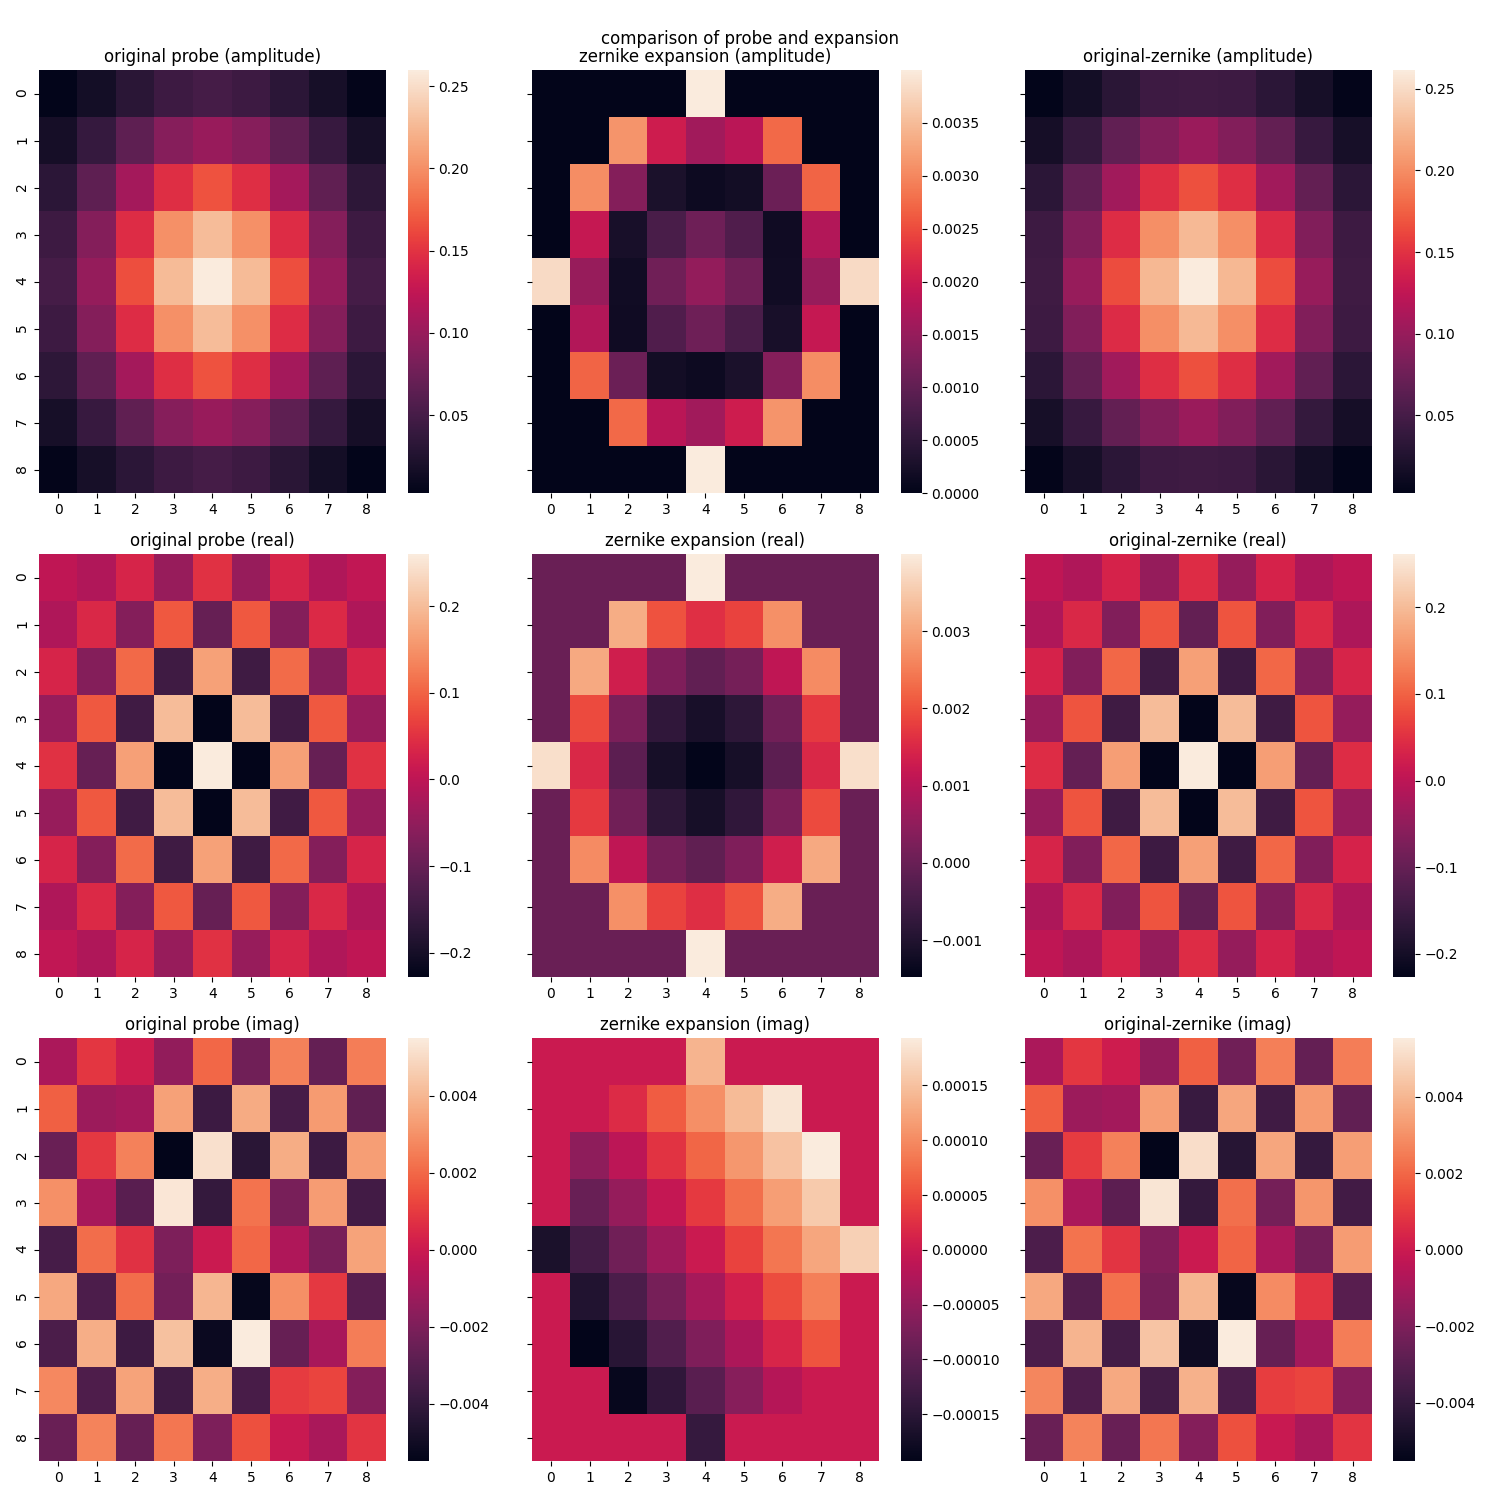
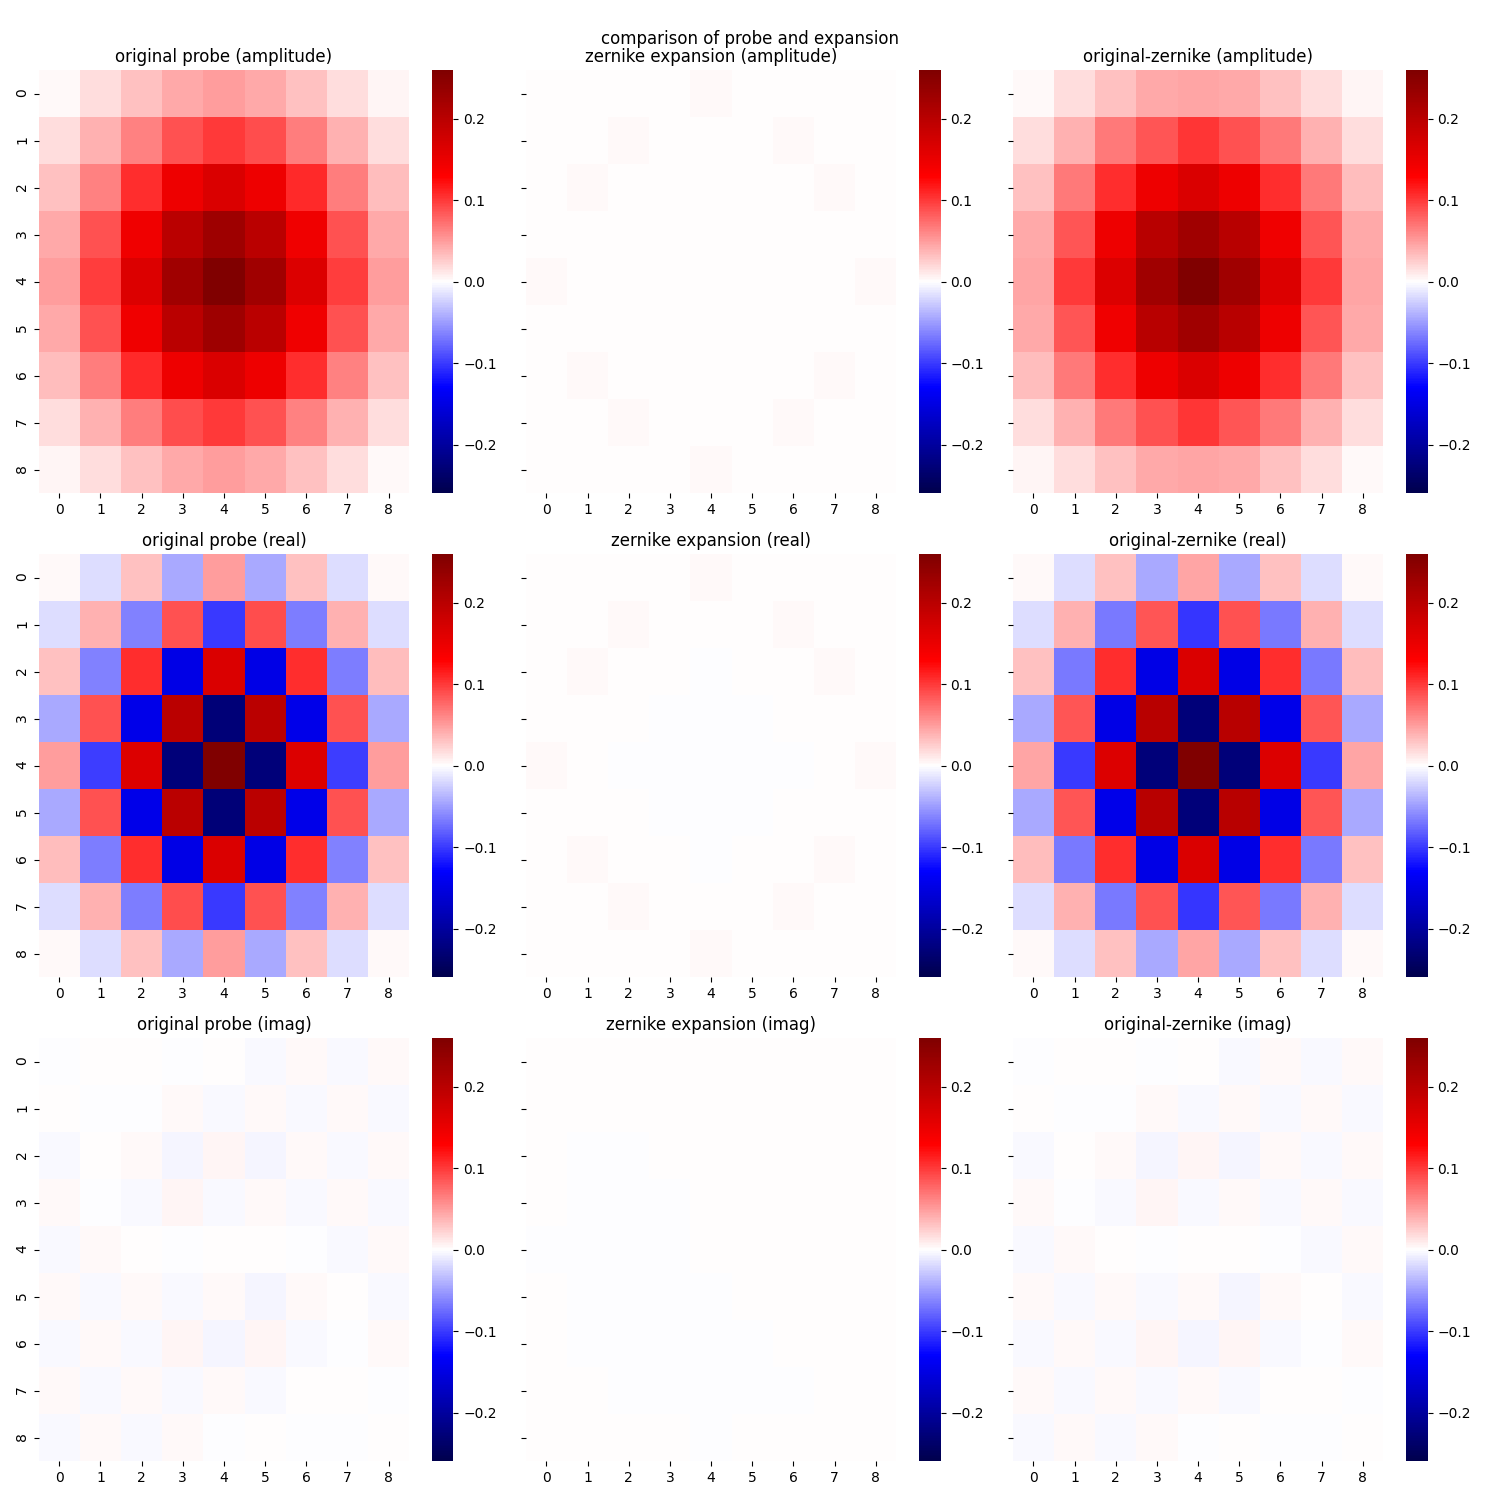
added normalisation for plot

diff --git a/probe.py b/probe.py
@@ -3,12 +3,20 @@
 import numpy as np
 import seaborn as sns
 import matplotlib.pyplot as plt
+from matplotlib import cm
 from zernike import CZern
 
 class Probe:
+	#callable attributes: sample (original), ft_sample (fourier transformed),
+	#	probe (cutout of ft_sample), max_index (boardes of probe),
+	#	nonzero (ft_sample low values set to zero)
+	#	cart (zernike czern object), coeffs 8order list of zernike coeffs
+	#methods: init (zernike expansion), plot (probe vs expansion),
+	#	coeff_N (returns coeffs of order N)
 	#initialise probe object by calculating its zernike coefficients
-	def __init__(self, sample, N, tolerance):
-		self.len=sample.shape[0]//2
+	def __init__(self, sample, N, tolerance="auto"):
+		self.sample=sample
+		LEN=sample.shape[0]
 
 		#transform sample to dual space
 		self.ft_sample=np.fft.fftshift(np.fft.fft2(sample))
@@ -32,12 +40,12 @@ class Probe:
 			k.append(nonzero[1][i])
 		k=np.array(k)
 		#maximum non-zero index, centered
-		max_index=np.amax(np.abs(k-self.len))
+		max_index=np.amax(np.abs(k-LEN//2))
 		self.max_index=max_index
 
 		#submatrix 
-		minIdx=-max_index+self.len
-		maxIdx=max_index+self.len+1
+		minIdx=-max_index+LEN//2
+		maxIdx=max_index+LEN//2+1
 		probe=self.ft_sample[minIdx:maxIdx, minIdx:maxIdx]
 		self.probe=probe
 		
@@ -56,41 +64,47 @@ class Probe:
 		#other returns from fit_cart_grid: residuals, rank, singular values (see numpy lstsq)
 
 	#plot probe vs fit
-	def test(self, save=False):		
+	def plot(self, save=False):		
 		fig, ((ax1,ax2,ax3),(ax4,ax5,ax6),(ax7,ax8,ax9))=plt.subplots(3,3,sharey=True,figsize=(15,15))
+		
 
-		#plot original probe
-		ax1=sns.heatmap(np.abs(self.probe),ax=ax1)
-		ax1.set_title("original probe (amplitude)")
-
-		ax4=sns.heatmap(self.probe.real,ax=ax4)
-		ax4.set_title("original probe (real)")
-
-		ax7=sns.heatmap(self.probe.imag,ax=ax7)
-		ax7.set_title("original probe (imag)")
-
-		#plot fitted zernike polynomial
+		#fitted zernike polynomial
 		fit=self.cart.eval_grid(self.coeffs, matrix=True)
 		fit=np.nan_to_num(fit, nan=0)
 
-		ax2=sns.heatmap(np.abs(fit),ax=ax2)
+		#define norms for all subplots
+		ALL=np.abs([np.abs(self.probe),np.abs(fit),self.probe.real,fit.real,self.probe.imag,fit.imag])
+		norm=plt.Normalize(-np.amax(ALL), np.amax(ALL))
+
+		#plot original probe
+		ax1=sns.heatmap(np.abs(self.probe),ax=ax1,cmap=cm.seismic,norm=norm)
+		ax1.set_title("original probe (amplitude)")
+
+		ax4=sns.heatmap(self.probe.real,ax=ax4,cmap=cm.seismic,norm=norm)
+		ax4.set_title("original probe (real)")
+
+		ax7=sns.heatmap(self.probe.imag,ax=ax7,cmap=cm.seismic,norm=norm)
+		ax7.set_title("original probe (imag)")
+
+		#plot fit
+		ax2=sns.heatmap(np.abs(fit),ax=ax2,cmap=cm.seismic,norm=norm)
 		ax2.set_title("zernike expansion (amplitude)")
 
-		ax5=sns.heatmap(fit.real,ax=ax5)
+		ax5=sns.heatmap(fit.real,ax=ax5,cmap=cm.seismic,norm=norm)
 		ax5.set_title("zernike expansion (real)")
 
-		ax8=sns.heatmap(fit.imag,ax=ax8)
+		ax8=sns.heatmap(fit.imag,ax=ax8,cmap=cm.seismic,norm=norm)
 		ax8.set_title("zernike expansion (imag)")
 
 		#plot difference between original and fit
 		diff=self.probe-fit
-		ax3=sns.heatmap(np.abs(diff),ax=ax3)
+		ax3=sns.heatmap(np.abs(diff),ax=ax3,cmap=cm.seismic,norm=norm)
 		ax3.set_title("original-zernike (amplitude)")
 
-		ax6=sns.heatmap(diff.real,ax=ax6)
+		ax6=sns.heatmap(diff.real,ax=ax6,cmap=cm.seismic,norm=norm)
 		ax6.set_title("original-zernike (real)")
 
-		ax9=sns.heatmap(diff.imag,ax=ax9)
+		ax9=sns.heatmap(diff.imag,ax=ax9,cmap=cm.seismic,norm=norm)
 		ax9.set_title("original-zernike (imag)")
 
 		fig.suptitle("comparison of probe and expansion")
@@ -114,8 +128,7 @@ if __name__=="__main__":
 
 	with open("probe_example.pkl","rb") as file:
 		sample=pkl.load(file)
-	N=10
+	N=2
 	tolerance="auto"
-	probe=Probe(sample["probe_aperture"], N, tolerance)
-	probe.test("save")
-	print(probe.coeffs)
+	probe=Probe(sample["probe_aperture"], N)
+	probe.plot("save")
